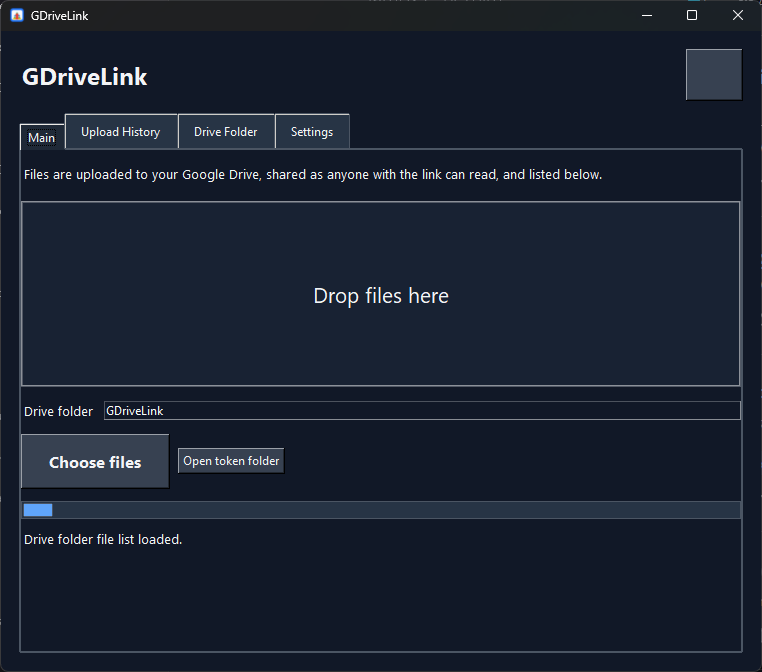
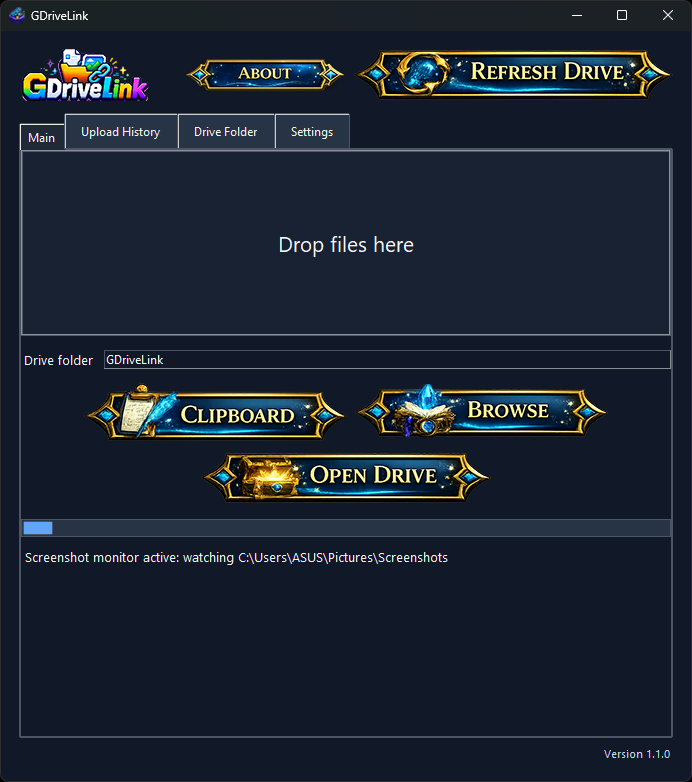
Add new portfolio project entries

diff --git a/index.html b/index.html
@@ -258,6 +258,30 @@
       <div class="project-grid">
         <article class="project-card">
           <h3>
+            <a href="https://github.com/jamps3/GDriveLink">
+              GDriveLink
+            </a>
+          </h3>
+
+          <p>
+            Python desktop utility for quickly turning local files and clipboard images
+            into Google Drive share links. The app supports drag-and-drop uploads and
+            Ctrl+V image previews to reduce repetitive upload, sharing, and copy-link steps.
+          </p>
+
+          <ul>
+            <li>Built a desktop workflow for uploading files to Google Drive and generating shareable links.</li>
+            <li>Added clipboard image handling so copied screenshots can be previewed and uploaded directly.</li>
+            <li>Focused the UI on fast everyday use with fewer manual browser and Drive interactions.</li>
+          </ul>
+
+          <p class="tech-stack">
+            Python · Google Drive API · Desktop GUI · Automation · File sharing
+          </p>
+        </article>
+
+        <article class="project-card">
+          <h3>
             <a href="https://github.com/jamps3/Quantifile">
               Quantifile
             </a>
@@ -282,12 +306,13 @@
           </p>
         </article>
         <article class="project-card">
-          <h3>Cross-platform 3D File Manager</h3>
+          <h3>SpiralFM</h3>
           <p>
-            Python / PyQt / Qt3D project exploring a spiral-based 3D file navigation interface
-            for browsing files and folders in a more visual way.
+            Rust / Bevy spatial file manager prototype exploring a spiral-based 3D
+            navigation interface for browsing file hierarchies in a more visual way,
+            while conventional 2D panels remain available for precise file work.
           </p>
-          <p class="tech-stack">Python · PyQt · Qt3D · GUI design · File systems</p>
+          <p class="tech-stack">Rust · Bevy · egui · 3D UI · File systems · Desktop app</p>
         </article>
 
         <article class="project-card">
@@ -315,6 +340,21 @@
             and product registry planning.
           </p>
           <p class="tech-stack">Python · PyQt6 · MariaDB · SQL · AWS</p>
+        </article>
+
+        <article class="project-card">
+          <h3>
+            <a href="https://github.com/jamps3/jampsFit">
+              jampsFit
+            </a>
+          </h3>
+          <p>
+            Android companion app and BLE protocol research tool for the Kospet TANK M1
+            smartwatch, combining a live health dashboard with steps, sleep decoding,
+            heart rate, SpO2, watch controls, notification mirroring, raw packet logs,
+            and unknown-packet capture.
+          </p>
+          <p class="tech-stack">Android · Kotlin · Jetpack Compose · Room · BLE / GATT · Protocol reverse engineering</p>
         </article>
 
         <article class="project-card">

diff --git a/index-fi.html b/index-fi.html
@@ -261,6 +261,28 @@
       <div class="project-grid">
         <article class="project-card">
           <h3>
+            <a href="https://github.com/jamps3/GDriveLink">
+              GDriveLink
+            </a>
+          </h3>
+          <p>
+            Pythonilla toteutettu työpöytätyökalu, jolla paikalliset tiedostot ja
+            leikepöydän kuvat saa nopeasti Google Drive -jakolinkeiksi. Sovellus tukee
+            raahaa ja pudota -latauksia sekä Ctrl+V-kuvaesikatselua, mikä vähentää
+            toistuvia lataus-, jako- ja linkinkopiointivaiheita.
+          </p>
+          <ul>
+            <li>Toteutin työpöytätyönkulun tiedostojen lataamiseen Google Driveen ja jaettavien linkkien luomiseen.</li>
+            <li>Lisäsin leikepöydän kuvien käsittelyn, jotta kopioidut kuvakaappaukset voi esikatsella ja ladata suoraan.</li>
+            <li>Suunnittelin käyttöliittymän nopeaan arkikäyttöön ja manuaalisten Drive-vaiheiden vähentämiseen.</li>
+          </ul>
+          <p class="tech-stack">
+            Python · Google Drive API · Työpöytä-GUI · Automaatio · Tiedostojen jakaminen
+          </p>
+        </article>
+
+        <article class="project-card">
+          <h3>
             <a href="https://github.com/jamps3/Quantifile">
               Quantifile
             </a>
@@ -284,12 +306,13 @@
         </article>
 
         <article class="project-card">
-          <h3>Monialustainen 3D-tiedostonhallinta</h3>
+          <h3>SpiralFM</h3>
           <p>
-            Python / PyQt / Qt3D -projekti, jossa tutkitaan spiraalimaista 3D-käyttöliittymää
-            tiedostojen ja kansioiden visuaaliseen selaamiseen.
+            Rust / Bevy -pohjainen spatiaalisen tiedostonhallinnan prototyyppi, jossa
+            tutkitaan spiraalimaista 3D-navigaatiota tiedostohierarkioiden visuaaliseen
+            selaamiseen. Tarkempi tiedostotyö hoituu tavallisilla 2D-paneeleilla.
           </p>
-          <p class="tech-stack">Python · PyQt · Qt3D · GUI-suunnittelu · Tiedostojärjestelmät</p>
+          <p class="tech-stack">Rust · Bevy · egui · 3D UI · Tiedostojärjestelmät · Työpöytäsovellus</p>
         </article>
 
         <article class="project-card">
@@ -317,6 +340,22 @@
             navigaatio, asiakasrekisteri ja tuoterekisterin suunnittelu.
           </p>
           <p class="tech-stack">Python · PyQt6 · MariaDB · SQL · AWS</p>
+        </article>
+
+        <article class="project-card">
+          <h3>
+            <a href="https://github.com/jamps3/jampsFit">
+              jampsFit
+            </a>
+          </h3>
+          <p>
+            Android-pohjainen companion-sovellus ja BLE-protokollan tutkimustyökalu
+            Kospet TANK M1 -älykellolle. Sovellus yhdistää live-terveysnäkymän,
+            askel- ja unidatan dekoodauksen, sykkeen, SpO2-arvot, kellon ohjaukset,
+            ilmoitusten peilauksen, raakapakettilokit ja tuntemattomien pakettien
+            kaappauksen.
+          </p>
+          <p class="tech-stack">Android · Kotlin · Jetpack Compose · Room · BLE / GATT · Protokollan reverse engineering</p>
         </article>
 
         <article class="project-card">

diff --git a/portfolio.html b/portfolio.html
@@ -114,6 +114,12 @@
               <img src="img/quantifile-screenshot.png" alt="Quantifile screenshot" loading="lazy" decoding="async" />
             </div>
             <div class="carousel-slide">
+              <img src="img/spiralfm-screenshot.png" alt="SpiralFM screenshot" loading="lazy" decoding="async" />
+            </div>
+            <div class="carousel-slide">
+              <img src="img/jampsfit-screenshot.png" alt="jampsFit screenshot" loading="lazy" decoding="async" />
+            </div>
+            <div class="carousel-slide">
               <img src="https://github.com/jamps3/leet-clock/raw/main/screenshot.png" alt="Leet Clock screenshot" loading="lazy" decoding="async" />
             </div>
           </div>
@@ -125,7 +131,9 @@
           <button class="carousel-control active" type="button" data-slide="0" aria-label="Show GDriveLink screenshot"></button>
           <button class="carousel-control" type="button" data-slide="1" aria-label="Show LeetIRCPythonBot screenshot"></button>
           <button class="carousel-control" type="button" data-slide="2" aria-label="Show Quantifile screenshot"></button>
-          <button class="carousel-control" type="button" data-slide="3" aria-label="Show Leet Clock screenshot"></button>
+          <button class="carousel-control" type="button" data-slide="3" aria-label="Show SpiralFM screenshot"></button>
+          <button class="carousel-control" type="button" data-slide="4" aria-label="Show jampsFit screenshot"></button>
+          <button class="carousel-control" type="button" data-slide="5" aria-label="Show Leet Clock screenshot"></button>
         </div>
       </div>
     </header>
@@ -305,17 +313,21 @@
         </article>
 
         <article class="portfolio-card">
-          <h3>Cross-platform 3D File Manager</h3>
+          <h3>SpiralFM</h3>
+
+          <img src="img/spiralfm-screenshot.png" alt="SpiralFM screenshot" class="portfolio-card-image" width="300" loading="lazy" decoding="async" />
 
           <p class="project-impact">
-            Exploration of more visual file navigation using a 3D spiral interface.
+            Spatial file manager prototype combining 3D navigation with practical file operations.
           </p>
 
           <p>
-            Python / PyQt / Qt3D project exploring a spiral-based 3D file navigation interface for browsing files and folders.
+            Rust / Bevy spatial file manager prototype. Its 3D spiral supports hierarchy,
+            orientation, favorites, and navigation, while conventional 2D panels handle
+            precise file work.
           </p>
 
-          <p class="tech-stack">Python · PyQt · Qt3D · GUI design · File systems</p>
+          <p class="tech-stack">Rust · Bevy · egui · 3D UI · File systems · Desktop app</p>
         </article>
 
         <article class="portfolio-card">
@@ -396,6 +408,28 @@
       <h2>Android Projects</h2>
 
       <div class="portfolio-projects">
+        <article class="portfolio-card">
+          <h3>
+            <a href="https://github.com/jamps3/jampsFit" target="_blank" rel="noopener noreferrer">
+              jampsFit
+            </a>
+          </h3>
+
+          <img src="img/jampsfit-screenshot.png" alt="jampsFit screenshot" class="portfolio-card-image" width="300" loading="lazy" decoding="async" />
+
+          <p class="project-impact">
+            Android companion app and BLE protocol research tool for the Kospet TANK M1 smartwatch.
+          </p>
+
+          <p>
+            jampsFit combines a live health dashboard with protocol reverse-engineering tools:
+            battery, activity, steps, sleep decoding, heart rate, SpO2, graphs, watch controls,
+            notification mirroring, raw packet logs, and unknown-packet capture.
+          </p>
+
+          <p class="tech-stack">Android · Kotlin · Jetpack Compose · Room · BLE / GATT · Protocol reverse engineering</p>
+        </article>
+
         <article class="portfolio-card">
           <h3>Gamified Android Productivity App</h3>
 
@@ -570,7 +604,7 @@
 
     const slides = document.querySelector(".carousel-slides");
     const controls = document.querySelectorAll(".carousel-control");
-    const titles = ["GDriveLink", "LeetIRCPythonBot", "Quantifile", "Leet Clock"];
+    const titles = ["GDriveLink", "LeetIRCPythonBot", "Quantifile", "SpiralFM", "jampsFit", "Leet Clock"];
     let currentSlide = 0;
 
     function updateCarousel() {